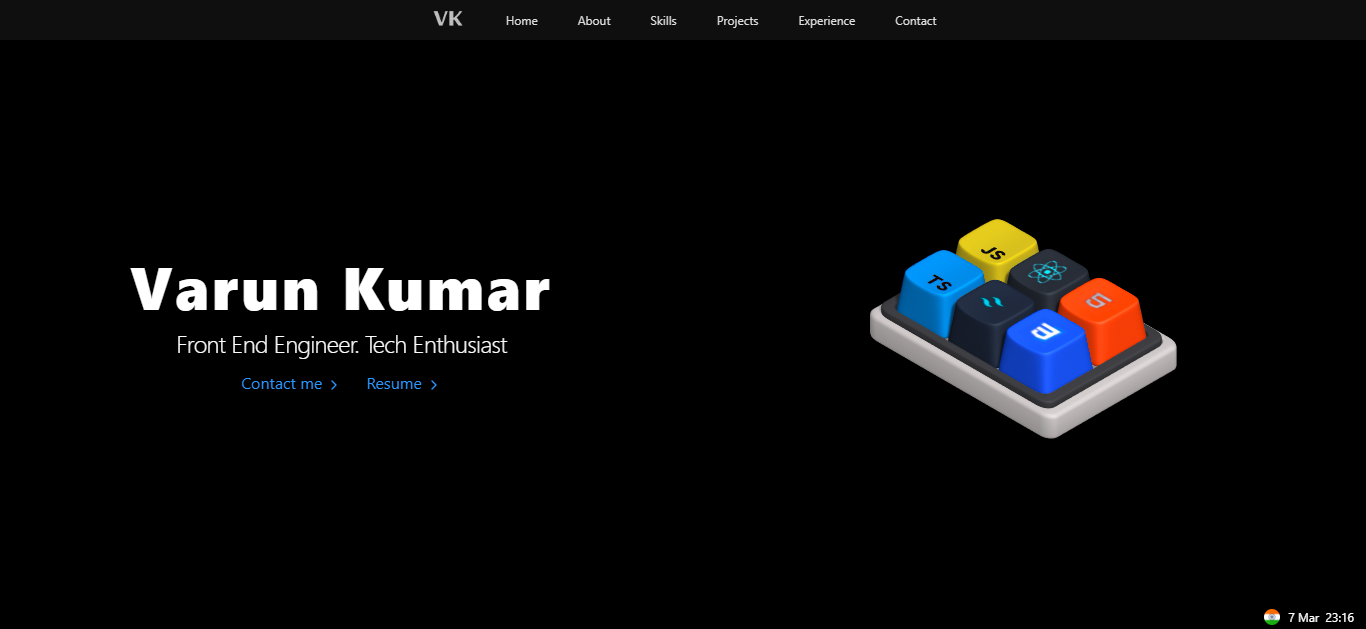
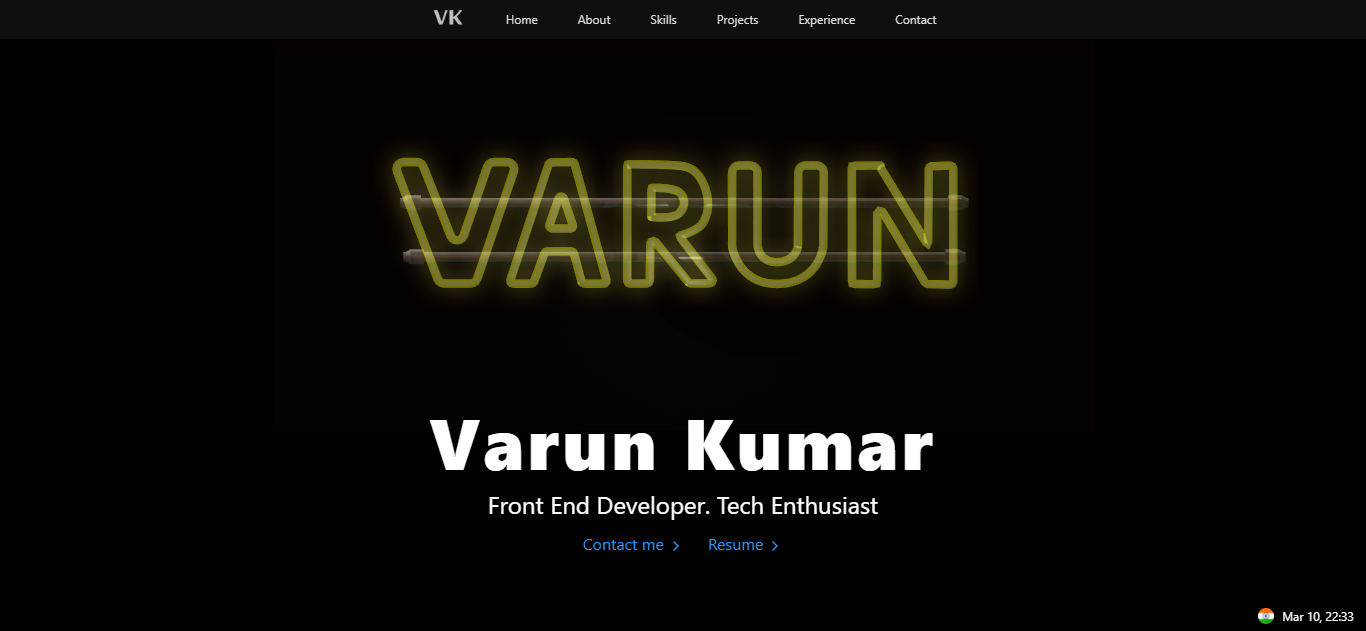
11Mar update

diff --git a/src/utils/data.js b/src/utils/data.js
@@ -1,5 +1,7 @@
 import { Linkedin, GithubIcon, Twitter} from 'lucide-react'
-
+import foodVilla from '../images/foodVilla.png'
+import portfolio from '../images/portfolio.png'
+import wipro from '../images/wipro.png'
 export const HeaderData = [
   {
     id: "home",
@@ -25,10 +27,11 @@ export const HeaderData = [
       id: "contact",
       text: "Contact",
     },
-  ];
-export const HomePageData = {
+];
+export const UserData = {
   name: "Varun Kumar",
-  title: "Front End Developer. Tech Enthusiast",
+  title: "Front End Developer . Tech Enthusiast",
+  about: "I am based out of Vizag, the city of Destiny from Andhra Pradesh. I am currently working as a Software Engineer at Wipro with around 2+ years of experience. I have expertise in frontend technologies like JavaScript, React and few utilitarian libraries useful for development. I believe in hard work and am passionate about open source. I Love learning new stuff every day and growing in this field, and I am confident that my unique perspective, skills and abilities will make me a valuable asset to any team.",
   links: [
     {
       text:"Contact me",
@@ -40,6 +43,12 @@ export const HomePageData = {
     }
   ]
 }
+export const SkillsData = [
+  { title: "Languages", text: "JS, TS, Java and C." },
+  { title: "Markup Languages", text: "HTML and CSS." },
+  { title: "Libraries", text: "React and TailwindCSS." },
+  { title: "Other", text: "Selenium, MySQL, AWS, GIT and BDD" },
+]
 export const contactData = [
     {
       url: "https://github.com/varunmsd99",
@@ -62,4 +71,29 @@ export const contactData = [
       text: "follow me on X",
       subtext: "follow me",
     },
-  ]
+]
+export const ProjectData = [
+  {
+    title: "FoodVilla",
+    subtitle: "A Swiggy Look-a-like Food Ordering Website",
+    img: foodVilla,
+    summary: "This is a react app built using the live Swiggy API's and various other trending technologies like Tailwind CSS as a Styling Framework, Redux for state management, React Router DOM for page navigation, Parcel as a bundler, Babel for transpiling code and many more.",
+    techs: ["React, Redux, React Router, TailwindCSS"],
+    githubLink: "https://github.com/varunmsd99/FoodVillaNamasteReact",
+    projectLink: "https://food-villa-react-app.netlify.app/",
+  },
+  {
+    title: "3D Portfolio",
+    subtitle: "A 3D personal portfolio",
+    img: portfolio,
+    summary: "This project is a 3D responsive portfolio website with 3D elements using Spline3D, Reactjs and Tailwind CSS showcasing a collection of personal projects and professional experiences.",
+    techs: ["React, Spline 3D, React Scroll, TailwindCSS"],
+    githubLink: "https://github.com/varunmsd99/MyPortfolio",
+    projectLink: "https://varun-vk.netlify.app/",
+  }
+]
+export const ExperienceData = [
+  {
+    img: wipro,
+  }
+]

diff --git a/src/components/Home.js b/src/components/Home.js
@@ -1,6 +1,6 @@
 import React from "react";
 import SplineHome from "./SplineHome";
-import { HomePageData } from "../utils/data";
+import { UserData } from "../utils/data";
 import { ChevronRight } from "lucide-react";
 import { Link } from "react-scroll";
 import flag from "../images/flag.png";
@@ -10,15 +10,15 @@ const Home = () => {
 
   return (
     <div className="min-h-[100dvh] max-h-fit bg-black flex flex-col" id="home">
-      <div className="flex-1 flex items-center justify-between flex-col">
+      <div className="flex-1 flex items-center justify-between flex-col md:mt-12">
         <div className="flex-1 flex items-center w-[60vw] md:w-screen">
           <SplineHome />
         </div>
-        <div className="flex flex-1 flex-col items-center text-white">
-          <h1 className="font-black text-6xl md:text-4xl tracking-wider">{HomePageData.name}</h1>
-          <h2 className="pt-3 text-2xl font-light md:text-xl tracking-tight">{HomePageData.title}</h2>
-          <div className="flex">
-          {HomePageData.links.map((x) => {
+        <div className="flex flex-1 flex-col items-center text-white -mt-12">
+          <h1 className="font-black text-7xl md:text-5xl tracking-wider">{UserData.name}</h1>
+          <h2 className="pt-3 text-2xl md:text-xl md:mt-2">{UserData.title}</h2>
+          <div className="flex md:mt-1">
+          {UserData.links.map((x) => {
             return(x.url.includes('/') ? (
               <a href={x.url} key={x.text} target="_blank" rel="noopener noreferrer" className="flex cursor-pointer text-sm text-[#2997ff] items-center pt-3 mx-3">
                 <h2 className="self-baseline text-center text-base pr-1">{x.text}</h2>
@@ -33,7 +33,7 @@ const Home = () => {
         </div>
       </div>
       <div className="text-white text-end py-2 px-3 flex self-end items-center">
-        <img src={flag} alt='flag' className="w-4 h-4 rounded-full  mr-2"/>
+        <img src={flag} alt='flag' className="w-4 h-4 rounded-full mr-2"/>
         <DateTimeDisplay />
       </div>
     </div>

diff --git a/src/components/Skills.js b/src/components/Skills.js
@@ -1,16 +1,24 @@
 import React from 'react';
-import SplineKeyboard from './SplineKeyboard';
+import SplineKeyboard from './SplineObject';
+import { SkillsData } from '../utils/data';
 
 const Skills = () => {
   return (
-    <div id='skills' className='min-h-[100dvh] bg-black text-white pt-12 flex flex-col'>
-      <h1 className='text-3xl font-black p-3 tracking-wide'>Skills</h1>
-      <div className='flex-1 flex justify-center items-center mt-4 md:flex-col-reverse'>
-        <div className='flex-1'>
-
-        </div>
-        <div className='flex flex-1 items-start w-full'>
+    <div id='skills' className='min-h-[100dvh] bg-black text-white pt-12 px-12 md:px-0 flex flex-col'>
+      <h1 className='text-3xl font-black my-4 ml-10 tracking-wide'>Skills</h1>
+      <div className='flex-1 flex md:flex-col'>
+        <div className='flex-1 flex items-center justify-center md:w-full md:flex-none'>
           <SplineKeyboard />
+        </div>
+        <div className='flex-1 p-10 grid grid-cols-2 gap-4 md:p-4'>
+          {SkillsData.map((x) =>{
+            return(
+              <div key={x.title} className='flex p-2 flex-col items-center justify-center text-clip bg-clip-padding backdrop-filter backdrop-blur-sm bg-opacity-10 bg-gray-200 rounded-xl'>
+                <h1 className='text-center text-xl font-semibold'>{x.title}</h1>
+                <h2 className='text-center text-sm font-thin pt-2'>{x.text}</h2>
+              </div>
+            )
+          })}
         </div>
       </div>
     </div>

diff --git a/src/components/About.js b/src/components/About.js
@@ -1,10 +1,17 @@
 import React from 'react'
 import face from '../images/face.png'
+import { UserData } from '../utils/data'
 
 const About = () => {
   return (
-    <div className='bg-white min-h-[100dvh] pt-10' id='about'>
+    <div className='bg-white min-h-[100dvh] flex flex-col pt-12 px-12 md:px-0' id='about'>
+      <h1 className='text-3xl font-black my-4 ml-10 tracking-wide'>About</h1>
+      <div className='flex md:flex-col'>
         <img src={face} alt='face' className='self-center w-[40vw] md:w-[67vw] rounded-full'/>
+        <div className='flex-1 flex p-2 flex-col items-center justify-center text-clip rounded-xl'>
+          <h1>{UserData.about}</h1>
+        </div>
+      </div>
     </div>
   )
 }
